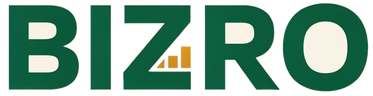
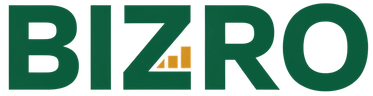
fix(brand): wordmark background fully removed — letter counters and edge fringe were still cream
The original extraction was an edge-connected flood fill, so the outer
background went transparent but the letter counters (holes in B, R, O)
survived as 16,444 opaque cream pixels and every anti-aliased edge kept a
cream fringe (~12,300 semi-transparent cream px). Invisible on the cream
card; glaring on the ink footer and the green invoice band.

clean_wordmark.py un-mixes each pixel against the cream background over the
two flat inks the logo uses (green 11,92,60 / gold 212,145,30, both measured
from the asset): solving pixel = a*ink + (1-a)*cream per ink gives an exact
alpha and replaces the stored colour with the pure ink, so edges come out as
a clean alpha ramp with no halo. Pixels fitting neither ink are left
byte-identical (13 in the master) so nothing unexpected can be mangled.

Measured: opaque cream 16,444 -> 0, semi cream 12,309 -> 0, ink coverage
89,724 -> 91,462 (edge px that were cream-tinted become proper semi-green;
letter shapes unchanged). Verified by compositing the served PNG on ink,
green and card before/after plus a 4x edge zoom and the 32px favicon.

Regenerates master + 96/48/32 + cream 96/48 and re-copies the served sizes
into site/public/brand and dashboard/public/brand; README's stale
"letter interiors survived" note corrected to point at the script.

diff --git a/assets/brand/clean_wordmark.py b/assets/brand/clean_wordmark.py
@@ -1,0 +1,110 @@
+"""Re-clean the Bizro wordmark: remove the cream background EVERYWHERE.
+
+The original extraction was an edge-connected flood fill, so the letter
+counters (the holes in B, R, O) survived as opaque cream and every
+anti-aliased edge kept a cream fringe. Both are invisible on the cream
+card background and glaring on the ink footer / green invoice band.
+
+Fix: un-mix each pixel against the cream background. Every pixel is
+modelled as  c = a*ink + (1-a)*bg  over the two flat inks the logo actually
+uses (green, gold). Solving for a per ink and keeping the better fit gives
+an exact alpha AND a fringe-free colour, because the stored RGB is replaced
+by the pure ink. JPEG noise in the flat fills collapses to the ink colour,
+which is what the vector original looks like. Pixels that fit neither ink
+(a residual above SAFETY) are left byte-identical, so nothing unexpected
+can be mangled.
+
+Outputs (overwrite in place):
+  wordmark.png            cleaned master
+  wordmark-96/48/32.png   LANCZOS downscales of the cleaned master
+  wordmark-cream-96/48.png  same alpha, ink recoloured to cream
+Run from the repo root:  python assets/brand/clean_wordmark.py
+"""
+
+import pathlib
+from PIL import Image
+
+HERE = pathlib.Path(__file__).resolve().parent
+
+BG = (249.0, 243.0, 230.0)          # cream background, measured from the asset
+INKS = [(11.0, 92.0, 60.0),         # green, measured dominant fill
+        (212.0, 145.0, 30.0)]       # gold bars, measured dominant fill
+CREAM_INK = (247, 242, 231)         # ink colour of the existing cream variant
+MIN_ALPHA = 0.03                    # below this a pixel is background
+SAFETY = 45.0                       # max residual (0-255 space) before we bail
+
+
+def unmix(c):
+    """Return (rgb, alpha) for a composited-over-BG colour c, or None to keep."""
+    d = [c[i] - BG[i] for i in range(3)]
+    best = None
+    for ink in INKS:
+        u = [ink[i] - BG[i] for i in range(3)]
+        uu = sum(x * x for x in u)
+        a = sum(d[i] * u[i] for i in range(3)) / uu
+        a = min(1.0, max(0.0, a))
+        resid = sum((d[i] - a * u[i]) ** 2 for i in range(3)) ** 0.5
+        if best is None or resid < best[0]:
+            best = (resid, a, ink)
+    resid, a, ink = best
+    if resid > SAFETY:
+        return None
+    if a < MIN_ALPHA:
+        return (0, 0, 0), 0
+    return (round(ink[0]), round(ink[1]), round(ink[2])), round(a * 255)
+
+
+def clean(src: Image.Image) -> Image.Image:
+    im = src.convert("RGBA")
+    px = im.load()
+    kept = 0
+    for y in range(im.height):
+        for x in range(im.width):
+            r, g, b, a = px[x, y]
+            if a == 0:
+                continue
+            out = unmix((r, g, b))
+            if out is None:
+                kept += 1
+                continue
+            (nr, ng, nb), na = out
+            px[x, y] = (nr, ng, nb, na)
+    print(f"  {im.width}x{im.height}: {kept} pixel(s) kept verbatim (no ink fit)")
+    return im
+
+
+def downscale(im: Image.Image, height: int) -> Image.Image:
+    w = round(im.width * height / im.height)
+    return im.resize((w, height), Image.LANCZOS)
+
+
+def recolour(im: Image.Image, rgb) -> Image.Image:
+    out = im.copy()
+    px = out.load()
+    for y in range(out.height):
+        for x in range(out.width):
+            _, _, _, a = px[x, y]
+            px[x, y] = (rgb[0], rgb[1], rgb[2], a)
+    return out
+
+
+def main():
+    master = clean(Image.open(HERE / "wordmark.png"))
+    master.save(HERE / "wordmark.png")
+
+    for h in (96, 48, 32):
+        downscale(master, h).save(HERE / f"wordmark-{h}.png")
+    for h in (96, 48):
+        recolour(downscale(master, h), CREAM_INK).save(HERE / f"wordmark-cream-{h}.png")
+
+    # the two apps ship byte-copies of the served sizes; keep them in sync
+    repo = HERE.parents[1]
+    for h in (96, 48, 32):
+        blob = (HERE / f"wordmark-{h}.png").read_bytes()
+        for dest in (repo / "site" / "public" / "brand", repo / "dashboard" / "public" / "brand"):
+            (dest / f"wordmark-{h}.png").write_bytes(blob)
+    print("synced site/public/brand + dashboard/public/brand")
+
+
+if __name__ == "__main__":
+    main()
